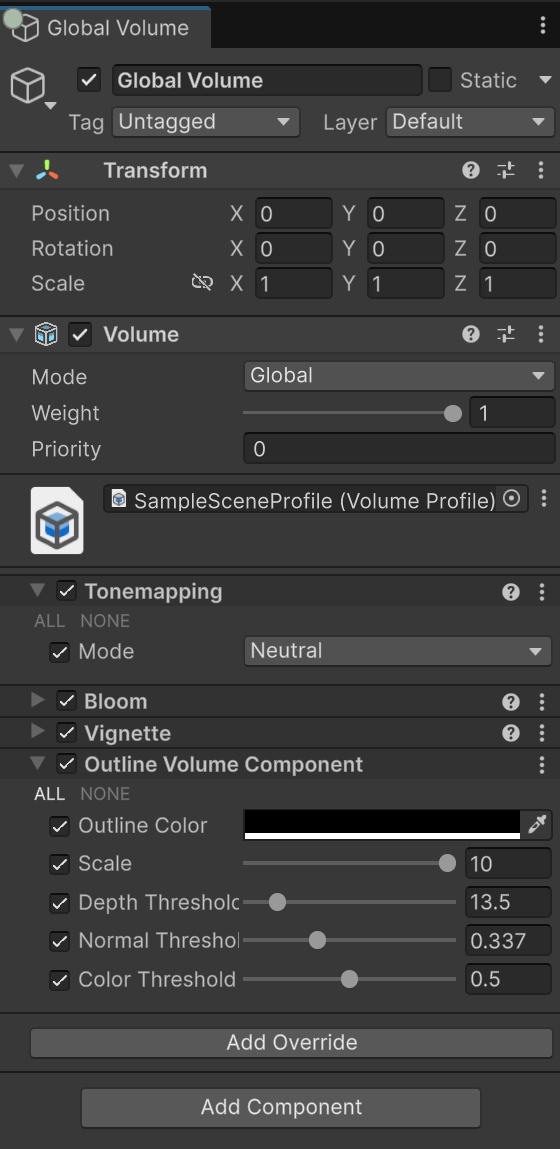
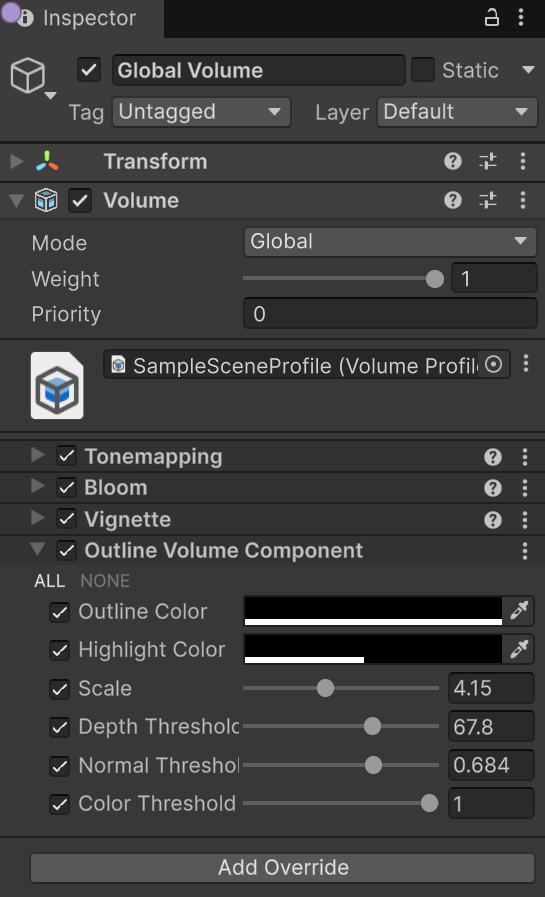
feat: Highlight objects
Now, you can highlight the filtered objects.
You can adjust the highlight for blending this color according to the alpha value.

Changed region(s): [[0.0, 0.0, 1.0, 0.9989], [0.8734, 0.0, 0.9982, 0.0312]]

diff --git a/Assets/Scripts/Graphics/RendererFeatures/Outline effect/OutputOutlineTexturesPass.cs b/Assets/Scripts/Graphics/RendererFeatures/Outline effect/OutputOutlineTexturesPass.cs
@@ -16,14 +16,17 @@ public class OutputOutlineTexturesPass : ScriptableRenderPass
     private const string k_NormalTextureName = "_NormalTexture";
     private const string k_DepthTextureName = "_DepthTexture";
     private const string k_ColorTextureName = "_ColorTexture";
+    private const string k_MaskTextureName = "_MaskTexture";
 
     private RenderTextureDescriptor m_NormalTextureDescriptor;
     private RenderTextureDescriptor m_DepthTextureDescriptor;
     private RenderTextureDescriptor m_ColorTextureDescriptor;
+    private RenderTextureDescriptor m_MaskTextureDescriptor;
 
     private int m_GlobalNormalTextureID = Shader.PropertyToID(k_NormalTextureName);
     private int m_GlobalDepthTextureID = Shader.PropertyToID(k_DepthTextureName);
     private int m_GlobalColorTextureID = Shader.PropertyToID(k_ColorTextureName);
+    private int m_GlobalMaskTextureID = Shader.PropertyToID(k_MaskTextureName);
 
     // This class stores the data needed by the RenderGraph pass.
     // It is passed as a parameter to the delegate function that executes the RenderGraph pass.
@@ -42,6 +45,7 @@ public class OutputOutlineTexturesPass : ScriptableRenderPass
         m_NormalTextureDescriptor = new RenderTextureDescriptor(Screen.width, Screen.height, RenderTextureFormat.Default, 0);
         m_DepthTextureDescriptor = new RenderTextureDescriptor(Screen.width, Screen.height, RenderTextureFormat.Default, 0);
         m_ColorTextureDescriptor = new RenderTextureDescriptor(Screen.width, Screen.height, RenderTextureFormat.Default, 0);
+        m_MaskTextureDescriptor = new RenderTextureDescriptor(Screen.width, Screen.height, RenderTextureFormat.Default, 0);
     }
 
     private void InitRendererLists(ContextContainer frameData, UniversalCameraData cameraData, ref PassData passData, RenderGraph renderGraph)
@@ -90,11 +94,13 @@ public class OutputOutlineTexturesPass : ScriptableRenderPass
             CreateTextureDescriptor(cameraData, ref m_NormalTextureDescriptor);
             CreateTextureDescriptor(cameraData, ref m_DepthTextureDescriptor);
             CreateTextureDescriptor(cameraData, ref m_ColorTextureDescriptor);
+            CreateTextureDescriptor(cameraData, ref m_MaskTextureDescriptor);
 
             // Create texture handles
             TextureHandle normalDestination = UniversalRenderer.CreateRenderGraphTexture(renderGraph, m_NormalTextureDescriptor, k_NormalTextureName, false);
             TextureHandle depthDestination = UniversalRenderer.CreateRenderGraphTexture(renderGraph, m_DepthTextureDescriptor, k_DepthTextureName, false);
             TextureHandle colorDestination = UniversalRenderer.CreateRenderGraphTexture(renderGraph, m_ColorTextureDescriptor, k_ColorTextureName, false);
+            TextureHandle maskDestination = UniversalRenderer.CreateRenderGraphTexture(renderGraph, m_ColorTextureDescriptor, k_MaskTextureName, false);
 
             InitRendererLists(frameData, cameraData, ref passData, renderGraph);
 
@@ -103,6 +109,7 @@ public class OutputOutlineTexturesPass : ScriptableRenderPass
             builder.SetRenderAttachment(normalDestination, 0);
             builder.SetRenderAttachment(depthDestination, 1);
             builder.SetRenderAttachment(colorDestination, 2);
+            builder.SetRenderAttachment(maskDestination, 3);
 
             builder.SetRenderAttachmentDepth(resourceData.activeDepthTexture, AccessFlags.Write);
 
@@ -110,6 +117,7 @@ public class OutputOutlineTexturesPass : ScriptableRenderPass
             builder.SetGlobalTextureAfterPass(normalDestination, m_GlobalNormalTextureID);
             builder.SetGlobalTextureAfterPass(depthDestination, m_GlobalDepthTextureID);
             builder.SetGlobalTextureAfterPass(colorDestination, m_GlobalColorTextureID);
+            builder.SetGlobalTextureAfterPass(maskDestination, m_GlobalMaskTextureID);
 
             builder.SetRenderFunc((PassData data, RasterGraphContext context) => ExecutePass(data, context));
         }

diff --git a/Assets/Scripts/Graphics/RendererFeatures/Outline effect/OutlineRenderPass.cs b/Assets/Scripts/Graphics/RendererFeatures/Outline effect/OutlineRenderPass.cs
@@ -13,6 +13,7 @@ public class OutlineRenderPass : ScriptableRenderPass
     Material m_BlitOutlineMaterial = null;
 
     static readonly int m_OutlineColorId = Shader.PropertyToID("_OutlineColor");
+    static readonly int m_HighlightColorId = Shader.PropertyToID("_HighlightColor");
     static readonly int m_ScaleId = Shader.PropertyToID("_Scale");
     static readonly int m_DepthThresholdId = Shader.PropertyToID("_DepthThreshold");
     static readonly int m_NormalThresholdId = Shader.PropertyToID("_NormalThreshold");
@@ -20,6 +21,7 @@ public class OutlineRenderPass : ScriptableRenderPass
 
     // Shader data
     private Color m_OutlineColor = Color.black;
+    private Color m_HighlightColor = Color.black;
     private float m_Scale = 0.0f;
     private float m_DepthThreshold = 0.0f;
     private float m_NormalThreshold = 0.0f;
@@ -86,6 +88,7 @@ public class OutlineRenderPass : ScriptableRenderPass
         {
             // If override state, retrieve the information from the volume property,  else retrieve the information from the the Renderer Feature settings
             m_OutlineColor = m_VolumeComponent.outlineColor.overrideState ? m_VolumeComponent.outlineColor.value : m_OutlineSettings.outlineColor;
+            m_HighlightColor = m_VolumeComponent.highlightColor.overrideState ? m_VolumeComponent.highlightColor.value : m_OutlineSettings.hightlightColor;
 
             m_Scale = m_VolumeComponent.scale.overrideState ? m_VolumeComponent.scale.value : m_OutlineSettings.scale;
             m_DepthThreshold = m_VolumeComponent.depthThreshold.overrideState ? m_VolumeComponent.depthThreshold.value : m_OutlineSettings.depthThreshold;
@@ -96,6 +99,7 @@ public class OutlineRenderPass : ScriptableRenderPass
         else
         {
             m_OutlineColor = m_OutlineSettings.outlineColor;
+            m_HighlightColor = m_OutlineSettings.hightlightColor;
 
             m_Scale = m_OutlineSettings.scale;
             m_DepthThreshold = m_OutlineSettings.depthThreshold;
@@ -105,6 +109,7 @@ public class OutlineRenderPass : ScriptableRenderPass
 
         // Set any material properties based on our volume pass settings
         m_BlitOutlineMaterial.SetColor(m_OutlineColorId, m_OutlineColor);
+        m_BlitOutlineMaterial.SetColor(m_HighlightColorId, m_HighlightColor);
 
         m_BlitOutlineMaterial.SetFloat(m_ScaleId, m_Scale);
         m_BlitOutlineMaterial.SetFloat(m_DepthThresholdId, m_DepthThreshold);

diff --git a/Assets/Scripts/Graphics/Volumes/OutlineVolumeComponent.cs b/Assets/Scripts/Graphics/Volumes/OutlineVolumeComponent.cs
@@ -10,6 +10,8 @@ public class OutlineVolumeComponent : VolumeComponent, IPostProcessComponent
 
     // Color parameters
     public ColorParameter outlineColor = new ColorParameter(Color.black);
+    // Highlight parameters
+    public ColorParameter highlightColor = new ColorParameter(Color.black);
 
     // Float parameters
     public ClampedFloatParameter scale = new ClampedFloatParameter(4.0f, 0.0f, 10.0f);

diff --git a/Assets/Scripts/Graphics/RendererFeatures/Outline effect/OutlineRendererFeature.cs b/Assets/Scripts/Graphics/RendererFeatures/Outline effect/OutlineRendererFeature.cs
@@ -27,6 +27,8 @@ public class OutlineRendererFeature : ScriptableRendererFeature
         public Material blitMaterial = null;
 
         public Color outlineColor = Color.black;
+        public Color hightlightColor = Color.black;
+
         public float scale = 4.15f;
         public float depthThreshold = 13.5f;
         public float normalThreshold = 0.337f;

diff --git a/README.md b/README.md
@@ -22,7 +22,7 @@ This example shows how to filter a set of renderers based on the [layermask](htt
 
 This example uses the [RenderGraph API](https://docs.unity3d.com/6000.0/Documentation/Manual/urp/render-graph.html) to write a Scriptable Render Passes in the Universal Render Pipeline (URP). Taking advantage of this API, it was used the following features:
 - Filter objects by using the [DrawRendererListCommandBuffer.DrawRendererList](https://docs.unity3d.com/6000.0/Documentation/ScriptReference/Rendering.CommandBuffer.DrawRendererList.html) method.
-- Multiple Render Targets (MRT) to store the Depth, Normals, and Color buffer.
+- Multiple Render Targets (MRT) to store the Depth, Normals, Color, and Mask buffer.
 - [Transfer a set of textures between render passes in URP](https://docs.unity3d.com/6000.0/Documentation/Manual/urp/render-graph-pass-textures-between-passes.html) to grab the aforementioned buffers to generate the outline effect.
 
 
@@ -30,13 +30,13 @@ By using this implementation, you can define a set of objects that you want to h
 
 ![Filter objects](Images/01_filter.png)
 
-Then, the [OutputOutlineTexturesPass](Assets\Scripts\Graphics\RendererFeatures\Outline effect\OutputOutlineTexturesPass.cs) will generate the Normal, Depth, and Color buffers. These buffers are necessary to perform the operations that calculate the surface outlines.
+Then, the [OutputOutlineTexturesPass](Assets\Scripts\Graphics\RendererFeatures\Outline effect\OutputOutlineTexturesPass.cs) will generate the Normal, Depth, Color, and Mask buffers. The Normal, Depth and Color buffers are necessary to perform the operations that calculate the surface outlines; The Mask buffer is necessary to highlight the objects filtered.
 
 In turn, the OutlineRenderPass will grab the aforementioned buffers to calculate the outline based on the [Roberts Cross Edge Detection](https://homepages.inf.ed.ac.uk/rbf/HIPR2/roberts.htm)
 
 ![Outline Rendere Feature](Images/02_outlinerenderefeature.png)
 
-Finally, the outline is multiplied by a color and blitted onto the scene color buffer.
+Finally, the outline is multiplied by a color and blitted onto the scene color buffer. Also, you can highlight the geometries.
 
 ![Final composition](Images/03_finalcomposition.png)
 
@@ -45,12 +45,12 @@ Files to take into account for achieving this:
     * Graphics:
         * RendererFeatures:
             * Outline effect:
-                * [OutlineRendererFeature](Assets/Scripts/Graphics/RendererFeatures/OutlineEffect/OutlineRendererFeature.cs): ScriptableRendererFeature that allows to configure the outline render passes, and defines their execution order.
+                * [OutlineRendererFeature](Assets/Scripts/Graphics/RendererFeatures/Outline effect/OutlineRendererFeature.cs): ScriptableRendererFeature that allows to configure the outline render passes, and defines their execution order.
 
-                * [OutputOutlineTexturesPass](Assets/Scripts/Graphics/RendererFeatures/OutlineEffect/OutputOutlineTexturesPass.cs):  Class that filters the object that will be affected by the outline effect, this is done via the `DrawRendererList` method.
+                * [OutputOutlineTexturesPass](Assets/Scripts/Graphics/RendererFeatures/Outline%20effect/OutputOutlineTexturesPass.cs):  Class that filters the object that will be affected by the outline effect, this is done via the `DrawRendererList` method.
                 Also, it generates the Normal, Depth, and Color buffers using Multiple Render Targets (`SetRenderAttachment`) and registers them globally (`SetGlobalTextureAfterPass`) for later access.
 
-                * [OutlineRenderPass](Assets/Scripts/Graphics/RendererFeatures/OutlineEffect/OutlineRenderPass.cs):  Class that retrieves the buffers, calculate the outline based on them, and Blit the result in the scene color.
+                * [OutlineRenderPass](Assets/Scripts/Graphics/RendererFeatures/Outline%20effect/OutlineRenderPass.cs):  Class that retrieves the buffers, calculate the outline based on them, and Blit the result in the scene color.
 
     * Behaviors:
         * [ChangeToLayer](Assets/Scripts/ChangeToLayer.cs): This behavior changes the `LayerMask` to *Outlined* when an object is selected.
@@ -60,7 +60,7 @@ Files to take into account for achieving this:
         * Outline:
             * [OutputOutlineTextures](Assets/Shaders/Hand-written/Outline/OutputOutlineTextures.shader): Shader that calculates and stores the normal, depth, and color in a set of RenderTextures.
             * [OutlineEffect](Assets/Shaders/Hand-written/Outline/OutlineEffect.shader): This shader is responsible for reading the normal, depth, and color buffers to calculate the outline.
-            For debugging purposes, there are a few shader variants  available to visualize the buffers and the outline result (`_VISUALIZEOPTION_OUTLINE`, `_VISUALIZEOPTION_NORMAL`, `_VISUALIZEOPTION_DEPTH`, `_VISUALIZEOPTION_COLOR`). You may remove them from your production build if they are not required.
+            For debugging purposes, there are a few shader variants  available to visualize the buffers and the outline result (`_VISUALIZEOPTION_OUTLINE`, `_VISUALIZEOPTION_NORMAL`, `_VISUALIZEOPTION_DEPTH`, `_VISUALIZEOPTION_COLOR`, `_VISUALIZEOPTION_MASK`). You may remove them from your production build if they are not required.
             The `_VISUALIZEOPTION_OUTLINECOLOR` keyword defines the implementation where the outline is blended with the scene color. Make sure to use this shader variant or replicate the logic it contains.
 # How to use
 * **_Step 1 — Define a new Layer Mask_**
